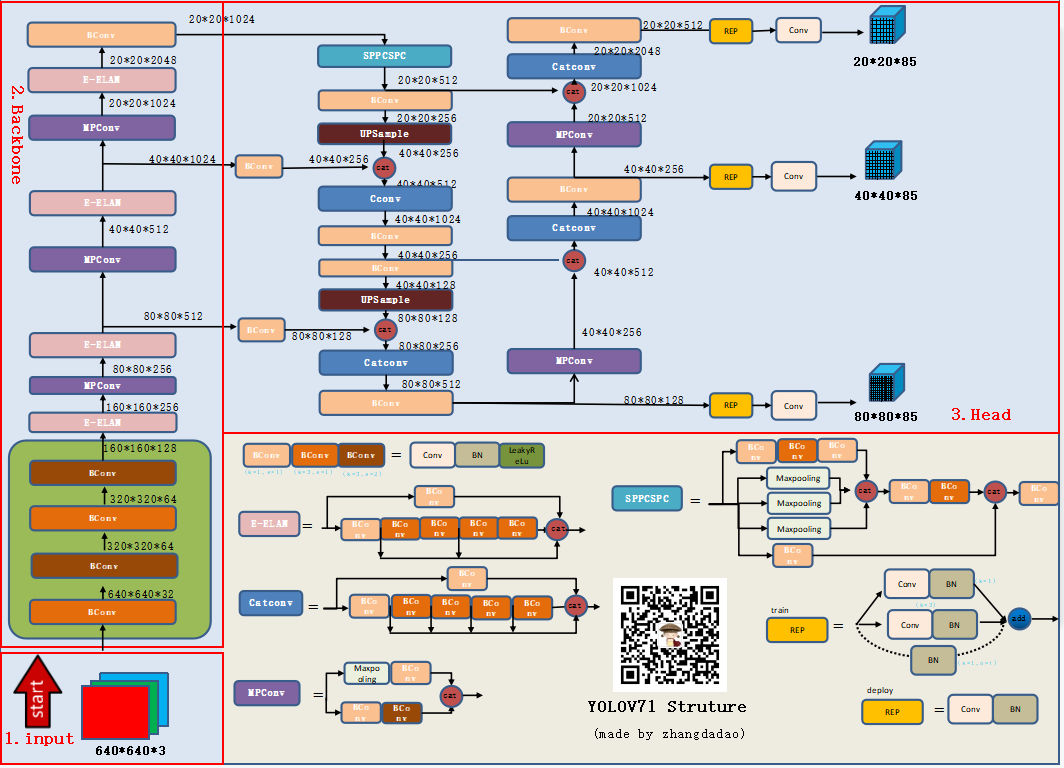
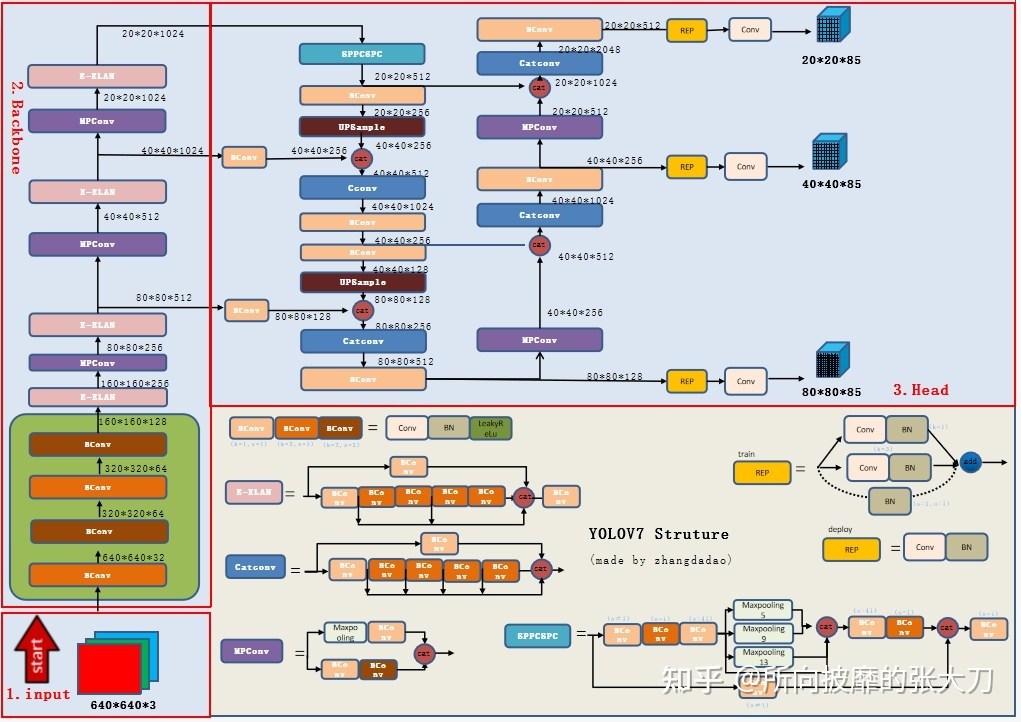
commit

Changed region(s): [[0.0, 0.0, 1.0, 1.0], [0.4554, 0.4571, 0.4858, 0.4875]]

diff --git a/README.md b/README.md
@@ -144,7 +144,7 @@ ______________________________________________________________________
 <img src='docs/image/yolov3_model.jpg'>
 
 以上网络模型结构图来自以下参考链接🔗
-[链接1](https://mp.weixin.qq.com/s/VEcUIaDrhc1ETIPr39l4rg)  [链接2](https://mp.weixin.qq.com/s/DFSROue8InARk-96I_Kptg)  [链接3](https://blog.csdn.net/qq_37541097/article/details/125132817)  [链接4](https://blog.csdn.net/qq_37541097/article/details/123594351)  [链接5](https://zhuanlan.zhihu.com/p/524548477)  [链接6](https://arxiv.org/abs/2011.08036)  [链接7](https://blog.csdn.net/qq_37541097/article/details/123229946)  [链接8](https://zhuanlan.zhihu.com/p/143747206)
+[链接1](https://zhuanlan.zhihu.com/p/543686792)  [链接2](https://mp.weixin.qq.com/s/DFSROue8InARk-96I_Kptg)  [链接3](https://blog.csdn.net/qq_37541097/article/details/125132817)  [链接4](https://blog.csdn.net/qq_37541097/article/details/123594351)  [链接5](https://zhuanlan.zhihu.com/p/524548477)  [链接6](https://arxiv.org/abs/2011.08036)  [链接7](https://blog.csdn.net/qq_37541097/article/details/123229946)  [链接8](https://zhuanlan.zhihu.com/p/143747206)
 
 ______________________________________________________________________
 
